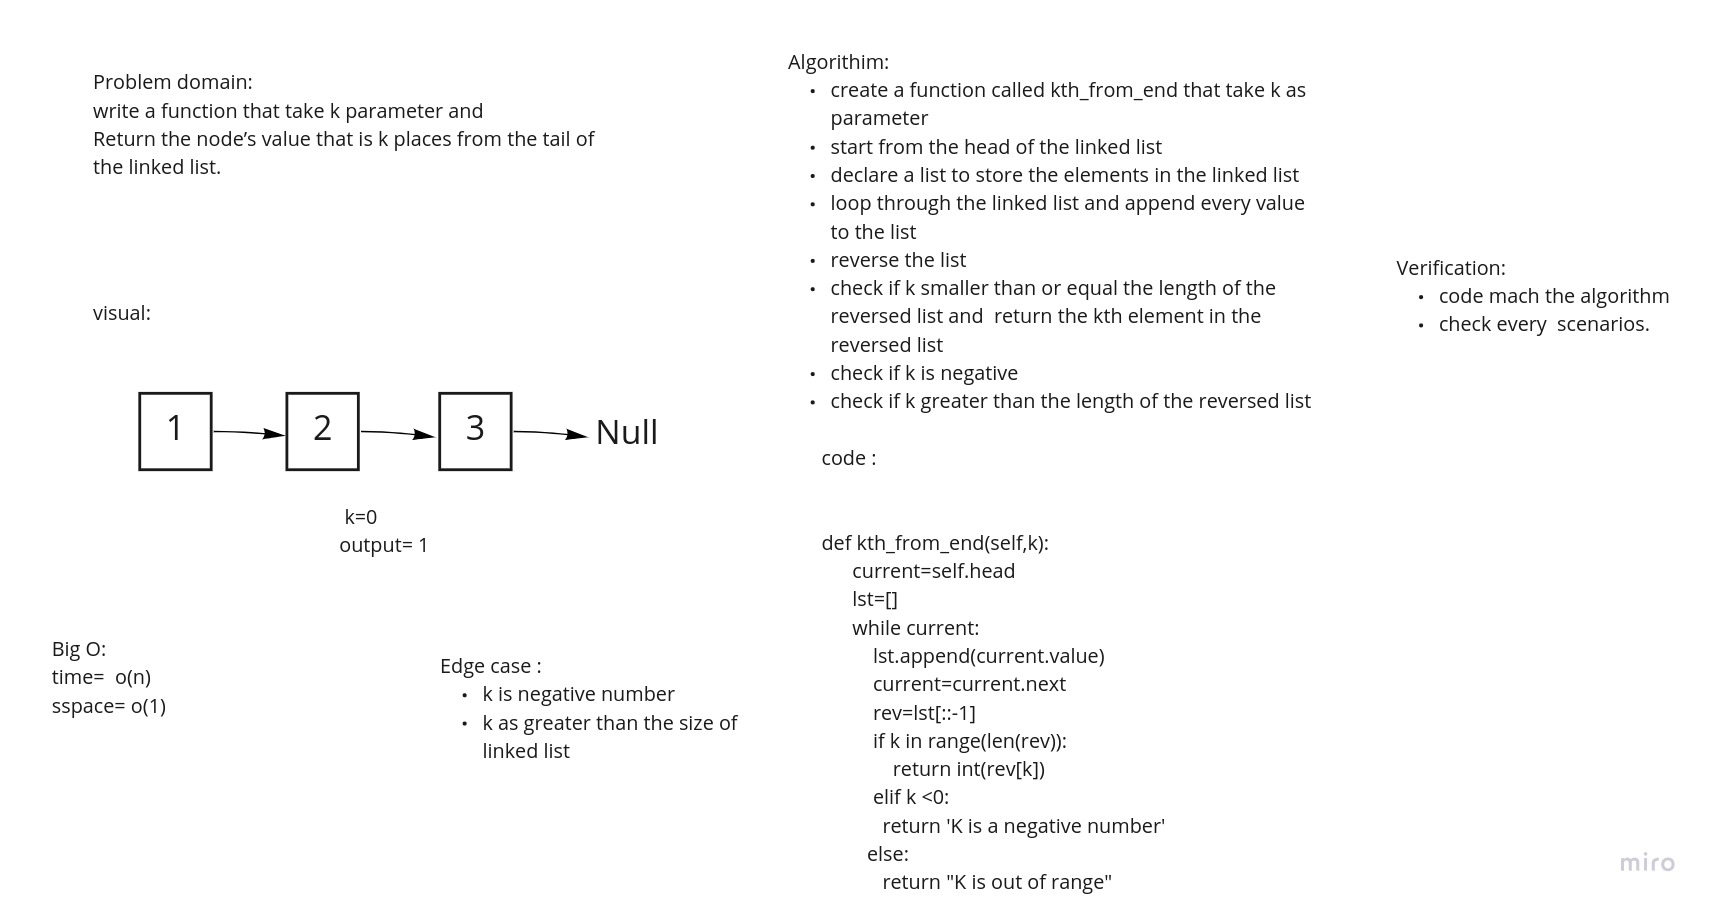
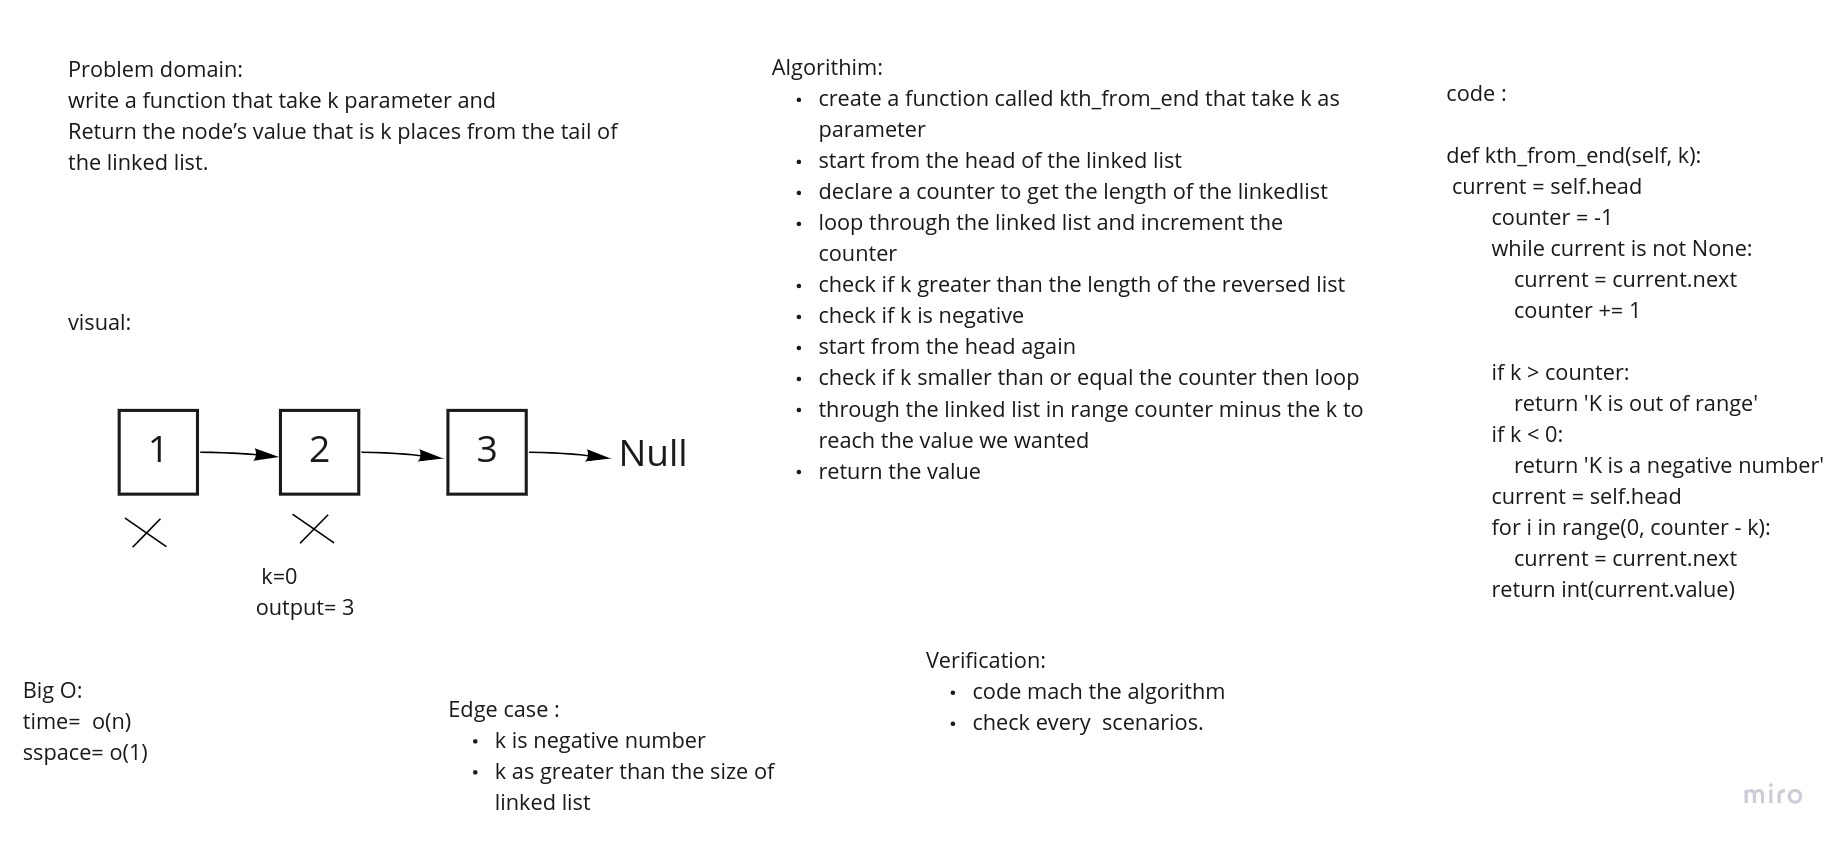
fix challenge 7

diff --git a/python/linkedlist/linkedlist/linkedlist.py b/python/linkedlist/linkedlist/linkedlist.py
@@ -1,3 +1,6 @@
+from typing import Counter
+
+
 class Node:
     def __init__(self, value):
         self.value = value
@@ -58,20 +61,21 @@ class LinkedList:
            current=current.next
         return False
 
-    def kth_from_end(self,k):
+    def kth_from_end(self, k):
+        current = self.head
+        counter = -1
+        while current is not None:
+            current = current.next
+            counter += 1
 
-      current=self.head
-      lst=[]
-      while current:
-          lst.append(current.value)
-          current=current.next
-      rev=lst[::-1]
-      if k in range(len(rev)):
-        return int(rev[k])
-      elif k <0:
-        return 'K is a negative number'
-      else:
-        return "K is out of range"
+        if k > counter:
+            return ('K is out of range')
+        if k < 0:
+            return 'K is a negative number'
+        current = self.head
+        for i in range(0, counter - k):
+            current = current.next
+        return int(current.value)
 
 
 
@@ -90,10 +94,11 @@ class LinkedList:
 if __name__=='__main__':
     ruba=LinkedList()
     ruba.insert('1')
-    # ruba.insert_after('1','2')
-    # ruba.insert_after('2','3')
+    ruba.insert_after('1','2')
+    ruba.insert_after('2','3')
     print(str(ruba))
     print(ruba.kth_from_end(0))
+
 
 
 
